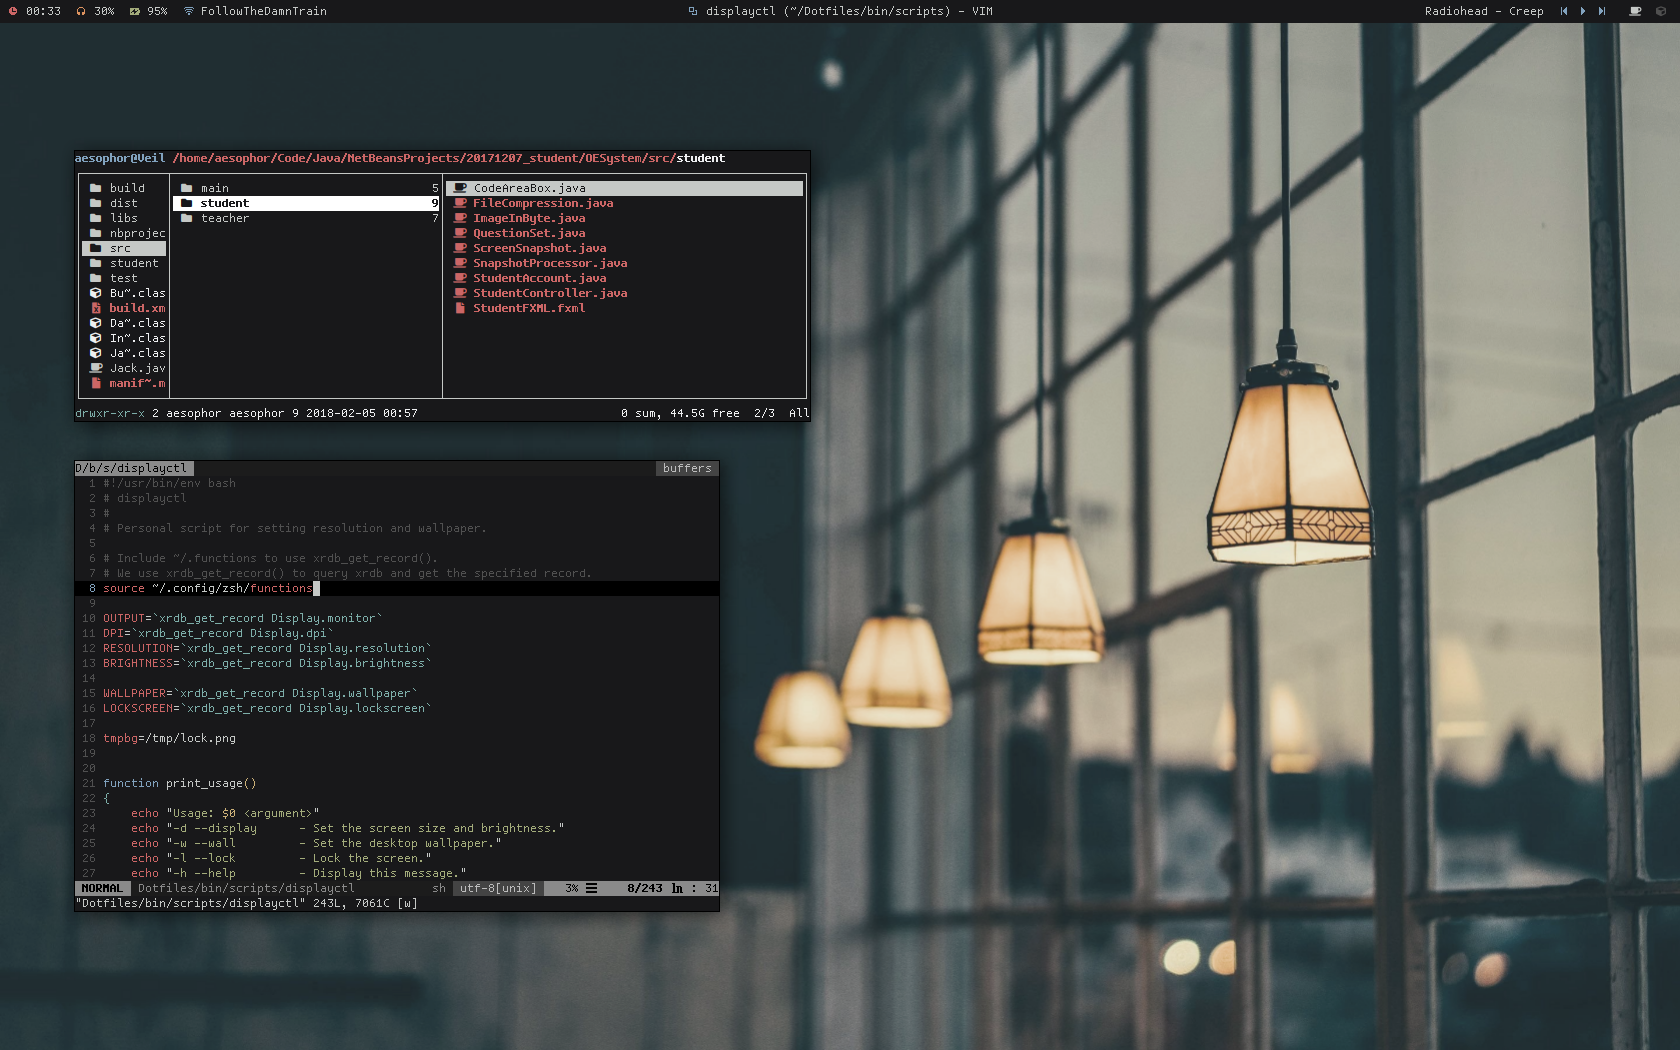
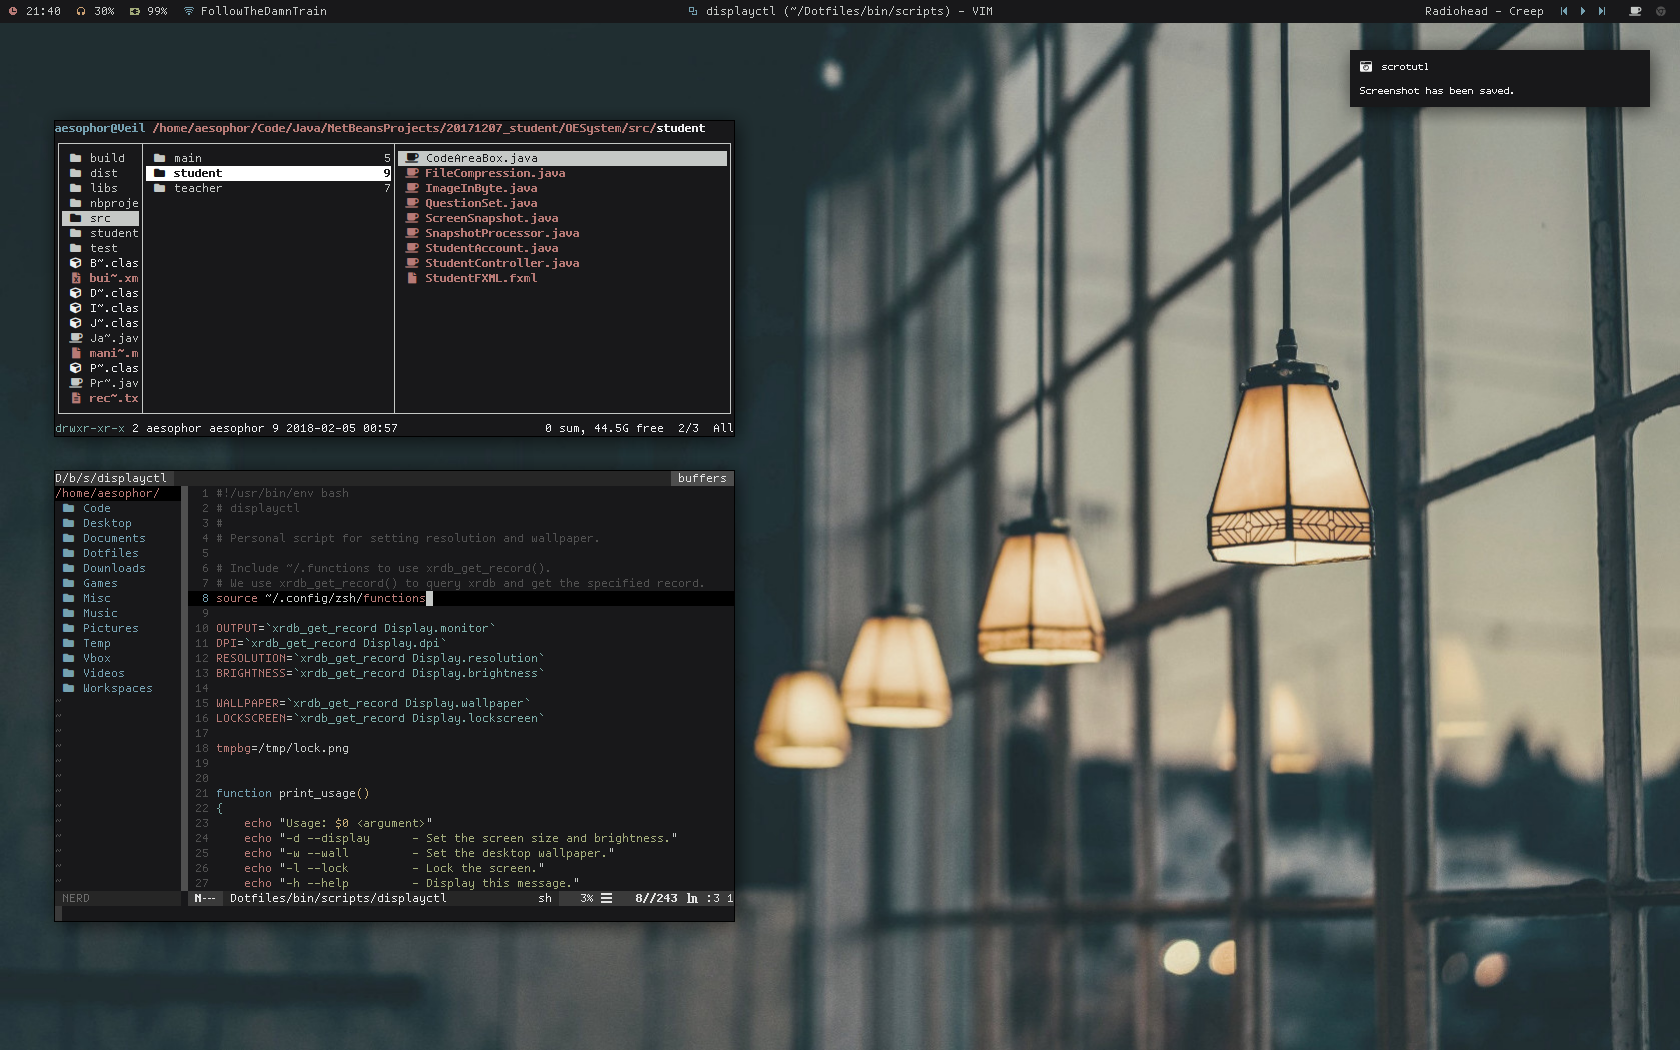
Updated base16-aesophor colorscheme and screenshots

Changed region(s): [[0.031, 0.1219, 0.4952, 0.8838], [0.8048, 0.0305, 0.9905, 0.1219]]

diff --git a/README.md b/README.md
@@ -37,7 +37,7 @@ My Gentoo dotfiles from Macbook Pro 11,2 (Late 2014).
 | zsh | [icebrick](https://github.com/aesophor/dotfiles/blob/master/.config/oh-my-zsh/themes/icebrick.zsh-theme) |
 | URxvt | [base16-aesophor](https://github.com/aesophor/base16-aesophor) |
 | vim | [base16-aesophor](https://github.com/aesophor/base16-aesophor) |
-| vim-airline | distinguished |
+| vim-airline | [minimalist](https://github.com/dikiaap/minimalist) |
 | ranger | [Good Night America](http://dotshare.it/dots/958/) |
 
 **Wallpapers**
